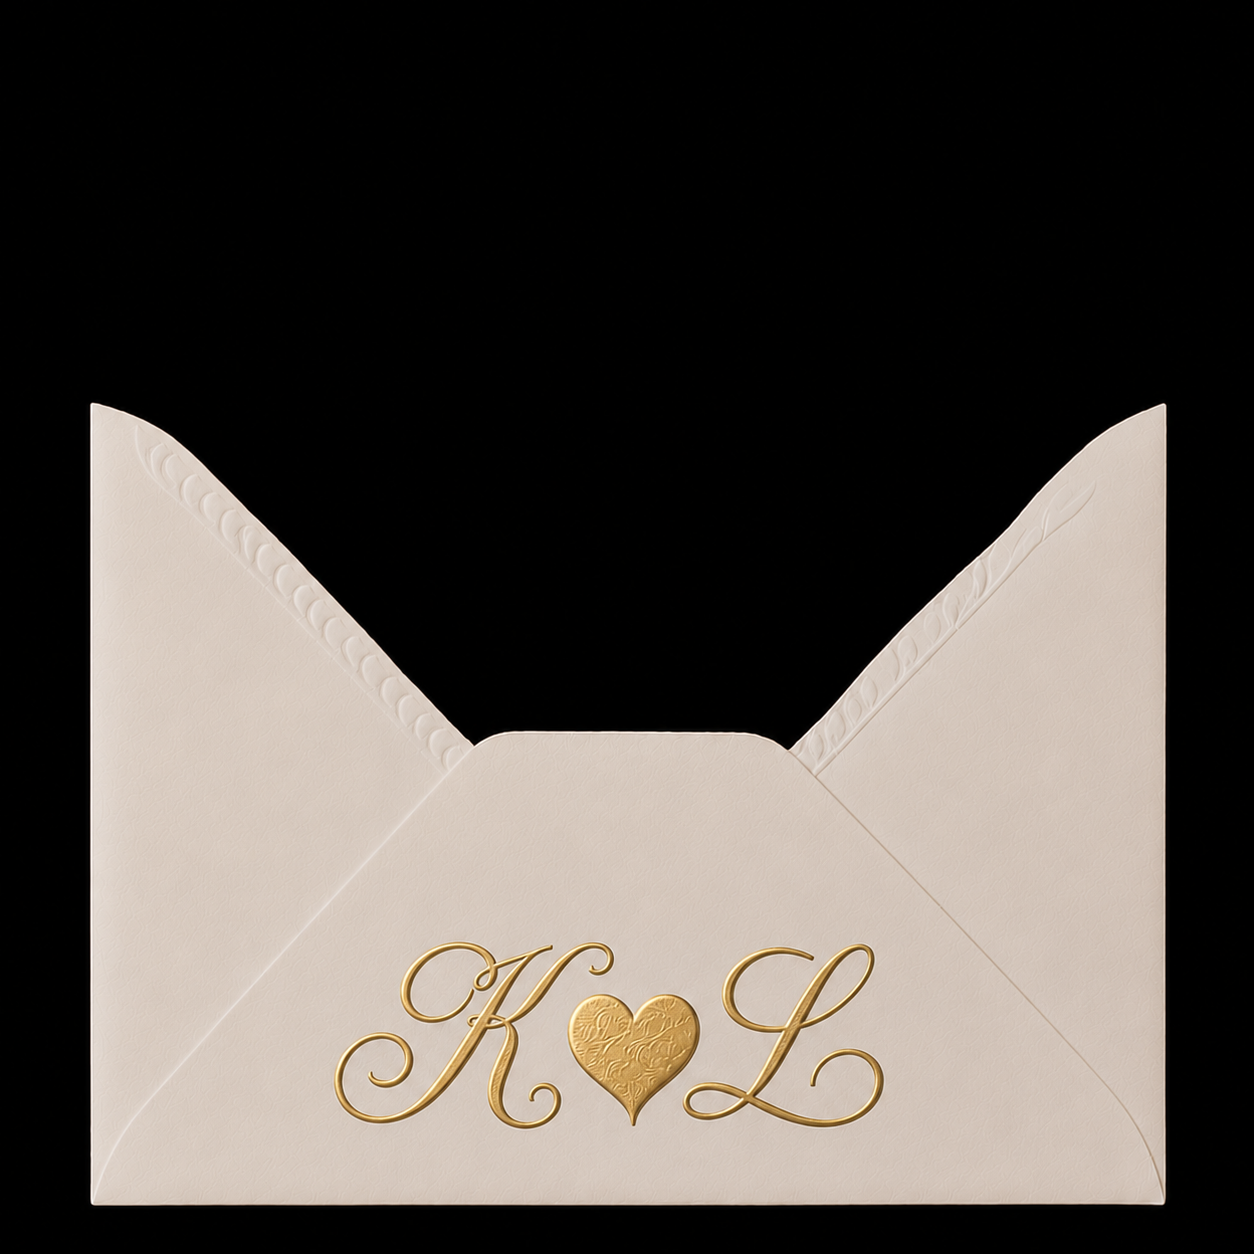
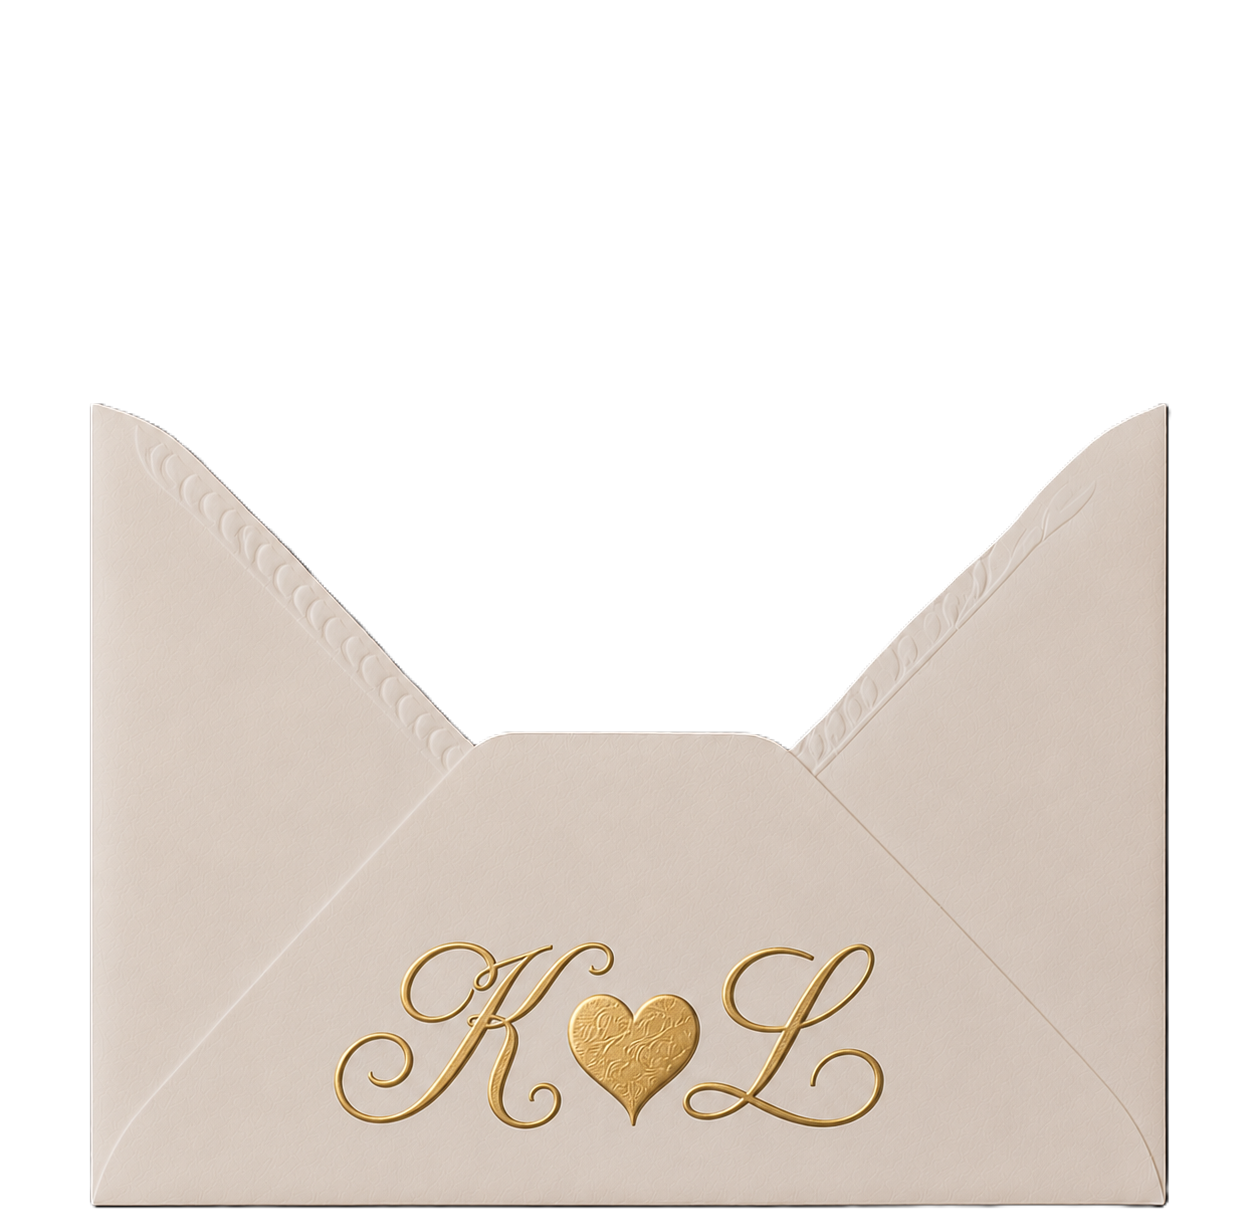
minor change

diff --git a/index.html b/index.html
@@ -9,7 +9,7 @@
     <link rel="preconnect" href="https://static.tildacdn.net">
     <link rel="preconnect" href="https://optim.tildacdn.net">
     <link rel="preconnect" href="https://pub-4dc8201144ca418fb604349c73e8c724.r2.dev">
-    <link rel="stylesheet" href="src/styles.css?v=5">
+    <link rel="stylesheet" href="src/styles.css?v=6">
     <link rel="icon" type="image/png" href="Images/favicon.png">
   </head>
   <body>

diff --git a/src/styles.css b/src/styles.css
@@ -576,7 +576,12 @@ button {
 
 .envelope-front-img {
   z-index: 4;
-  transform: translateY(15px);
+  inset: auto;
+  left: 9px;
+  top: 36px;
+  width: 470px;
+  height: 454px;
+  transform: none;
 }
 
 .letter-ornament-top {
